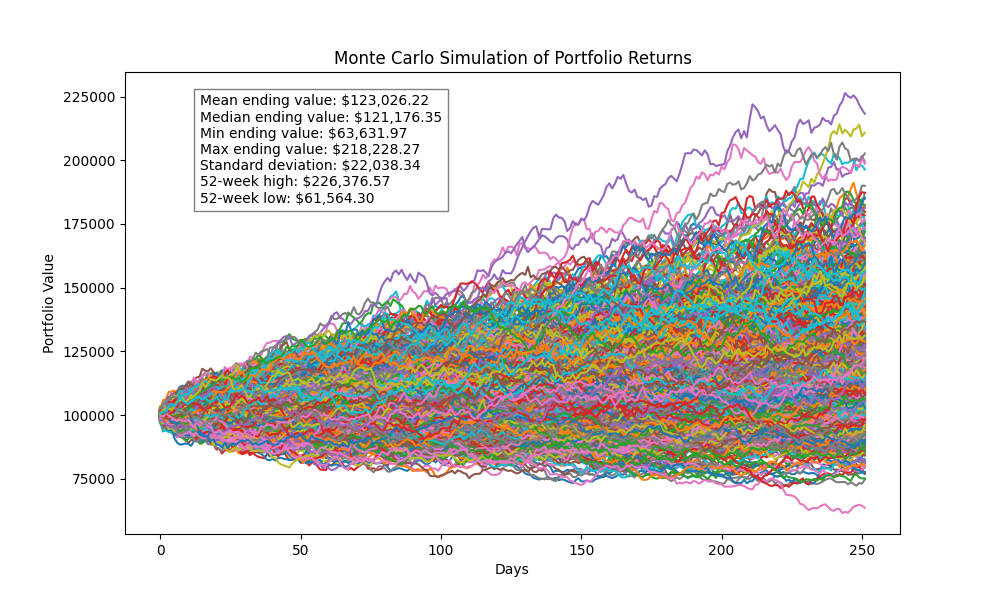
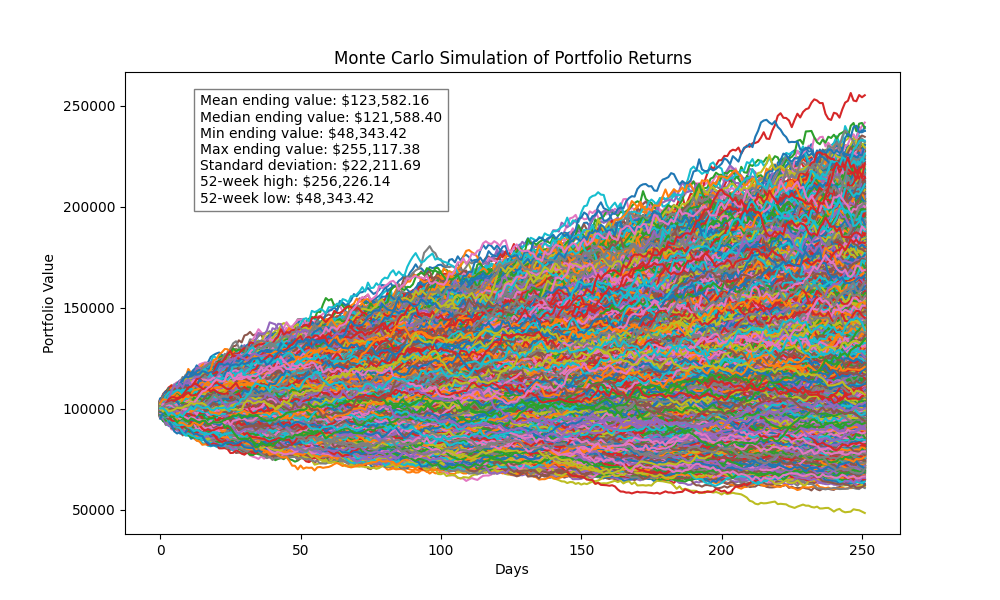
Without Error

diff --git a/Monte-Carlo-Simulation.py b/Monte-Carlo-Simulation.py
@@ -5,28 +5,29 @@ import matplotlib.pyplot as plt
 from numba import jit, prange
 import datetime as dt
 import time
+
 start_time = time.time()
-another_time = time.time()
+
 file_path = 'port.xlsx'
 
-# Load portfolio data
-portfolio_data = pd.read_excel(file_path, sheet_name='Sheet1', usecols=['TICKER', 'ALLOCATION'])
-tickers = portfolio_data['TICKER'].tolist()  
-weights = portfolio_data['ALLOCATION'].values  
+# Load portfolio data efficiently
+portfolio_data = pd.read_excel(file_path, sheet_name='Sheet1', usecols=['TICKER', 'ALLOCATION'], engine='openpyxl')
+tickers = portfolio_data['TICKER'].tolist()
+weights = portfolio_data['ALLOCATION'].values
 
 # Load portfolio value
-portfolio_value_df = pd.read_excel(file_path, sheet_name='Sheet1', usecols='D', nrows=1)
-portfolio_value = portfolio_value_df.iloc[0, 0]  
+portfolio_value_df = pd.read_excel(file_path, sheet_name='Sheet1', usecols='D', nrows=1, engine='openpyxl')
+portfolio_value = portfolio_value_df.iloc[0, 0]
 
-# Download historical data
+# Download historical data once
 data = yf.download(tickers, start='2014-01-01', end=dt.datetime.now())['Adj Close']
 
 # Calculate daily returns
 returns = data.pct_change().dropna()
 
 # Simulation parameters
-num_simulations = 1000
-num_days = 252  
+num_simulations = 100000
+num_days = 252
 
 # Mean returns and covariance matrix
 mean_returns = returns.mean()
@@ -39,28 +40,31 @@ cov_matrix += np.eye(cov_matrix.shape[0]) * 1e-10
 mean_returns_np = mean_returns.values  # Convert to NumPy array
 cov_matrix_np = cov_matrix.values      # Convert to NumPy array
 
-# Generate random daily returns outside the jitted function
+# Generate random daily returns outside the jitted function using NumPy's multivariate normal distribution
 random_returns = np.random.multivariate_normal(mean_returns_np, cov_matrix_np, (num_simulations, num_days))
 
-# Jitted function for Monte Carlo simulation
+# Ensure weights is a NumPy array
+weights = np.array(weights)
+
+# Optimized Monte Carlo simulation using Numba
 @jit(nopython=True, parallel=True)
-def test(random_returns, weights, portfolio_value):
+def monte_carlo_sim(random_returns, weights, portfolio_value):
     num_days, num_simulations = random_returns.shape[1], random_returns.shape[0]
     simulation_results = np.zeros((num_days, num_simulations))
     portfolio_highs = np.zeros(num_simulations)
     portfolio_lows = np.zeros(num_simulations)
-    
+
     for i in prange(num_simulations):
         cumulative_returns = np.cumprod(np.dot(random_returns[i], weights) + 1)
         portfolio_values = portfolio_value * cumulative_returns
         simulation_results[:, i] = portfolio_values
         portfolio_highs[i] = np.max(portfolio_values)
         portfolio_lows[i] = np.min(portfolio_values)
-    
+
     return simulation_results, portfolio_highs, portfolio_lows
 
-# Run the simulation with random returns passed to the function
-simulation_results, portfolio_highs, portfolio_lows = test(random_returns, weights, portfolio_value)
+# Run the optimized simulation
+simulation_results, portfolio_highs, portfolio_lows = monte_carlo_sim(random_returns, weights, portfolio_value)
 
 # Calculate summary statistics
 end_results = simulation_results[-1, :]
@@ -93,7 +97,6 @@ plt.gcf().text(0.2, 0.75, textstr, fontsize=10, verticalalignment='center', bbox
 
 # Save the plot to a file
 plt.savefig('portfolio_simulation_with_stats.png')
-plt.show()
 
 # Print the results
 print(f"Mean ending portfolio value: ${mean_ending_value:,.2f}")
@@ -106,6 +109,8 @@ print(f"52-week low (across simulations): ${overall_low:,.2f}")
 
 print("Correlation Matrix:")
 print(correlation_matrix)
+
+# Measure time taken for execution
 end_time = time.time()
 time_taken = end_time - start_time
 print(f"Time taken: {time_taken:.2f} seconds")
